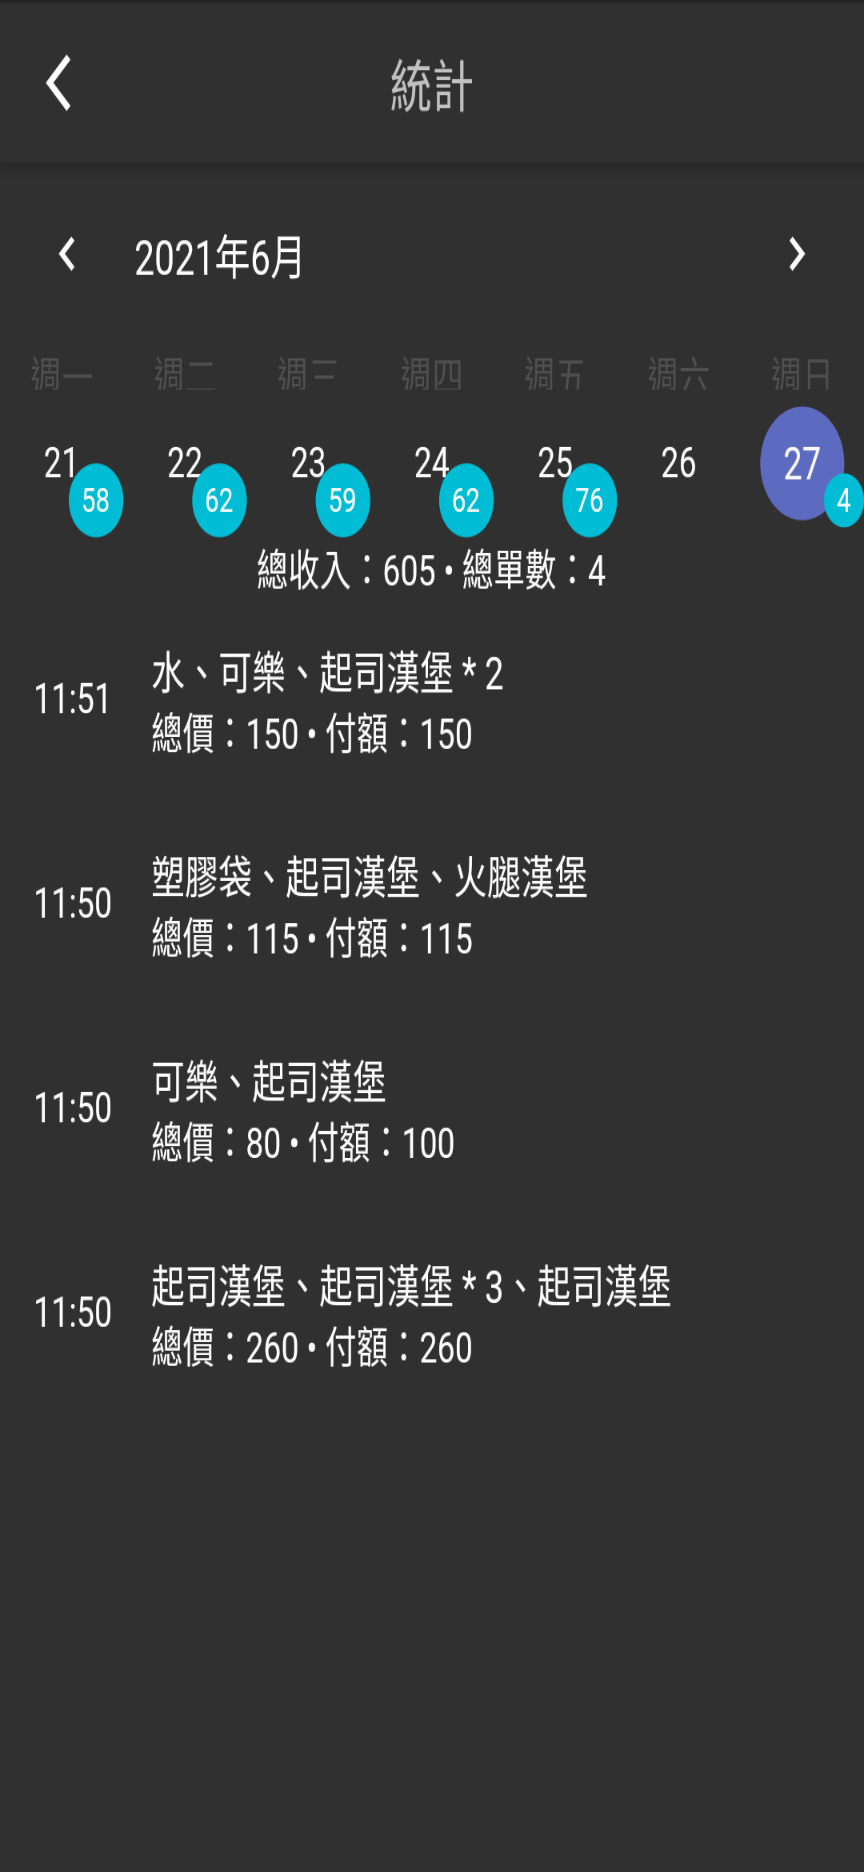
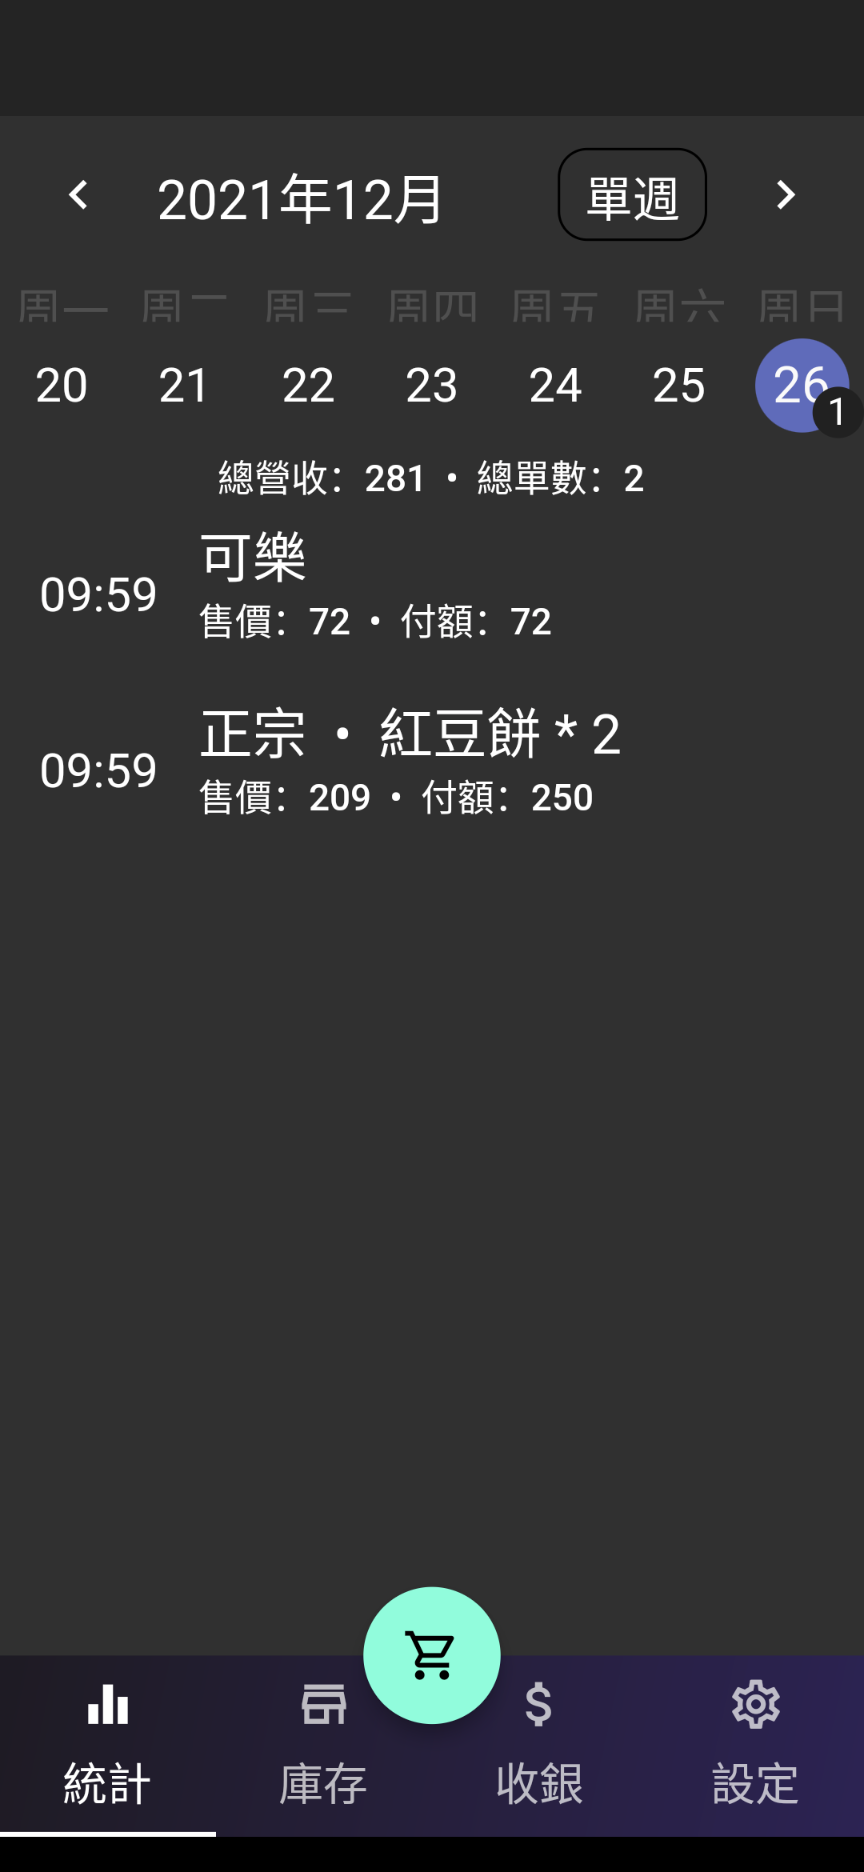
Update images

diff --git a/docs/paint_introduce.py b/docs/paint_introduce.py
@@ -15,9 +15,9 @@ space = 60
 
 images = [
     Image.open("%s/%s" % (folder, x))
-    for x in ["2_menu_product.png", "3_order.png", "7_analytics_dark.png"]
+    for x in ["2_menu_product.png", "3_order.png", "5_stock.png"]
 ]
-textList = ["設定產品", "點餐", "統計點餐紀錄"]
+textList = ["設定產品", "點餐", "庫存系統"]
 widths, heights = zip(*(i.size for i in images))
 
 # with space between images and around
